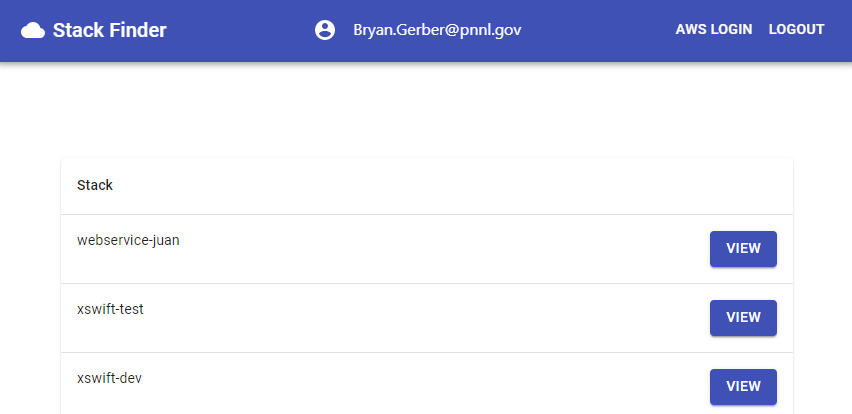
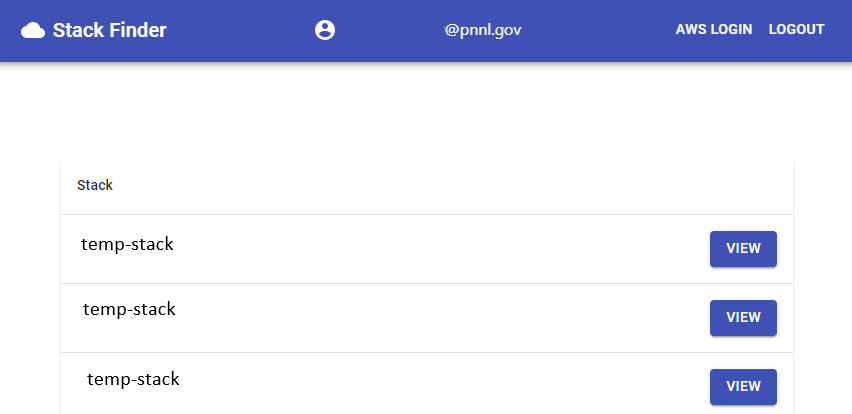
updating readme, and removing duplicate dockerfile

diff --git a/README.md b/README.md
@@ -77,7 +77,7 @@ Clicking into a Stack will show the AWS resources, and optionally a link to the 
 
         # bucket to grab testset data from, this can be changed to 
         # a different bucket that has data if desired
-        BUCKET="n25-testset"
+        BUCKET="temp-bucket"
 
         # tags to filter on, add new tags with comma ',' seperation
         TAGS=["stack-finder"]
@@ -85,15 +85,13 @@ Clicking into a Stack will show the AWS resources, and optionally a link to the 
         # group id or id's that you would like to filter on
         # these can be found at: https://portal.azure.com
         GROUP_ID=[
-            "6244b1cd-56a0-4f32-b192-9f418cf7239f", # panda-viking group
-            "0ba160f8-742c-4ec2-8d5a-60df11b66d95"  # ardis adfs group
+            "12345678-abcd-1234-abcd-123456789abc"
         ]
 
         # provide users that you would like to add
         GROUP=[
-            "henry.macias@pnnl.gov",
-            "bryan.gerber@pnnl.gov",
-            "juan.barajas@pnnl.gov"
+            "first.last@domain.com",
+            "first.last@domain.com"
         ]
         ```
 
@@ -178,11 +176,11 @@ Clicking into a Stack will show the AWS resources, and optionally a link to the 
             #! /usr/bin/env bash
             
             export TESTING=1                                    # let the application know we are testing
-            export STACK="rpm8-n25-webservice-test"             # the default stack I am using
-            export BUCKET="n25-rpm8-incoming"                   # bucket the test stack is using
-            export WEBSERVICE_NAME="rpm8-n25-webservice-test"   # webservice name on AWS
-            export CLUSTER="ardis-n25-dc"                       # cluster the webservice is on
-            export LOG_GROUP="/ecs/rpm8-n25-webservice-test"    # log group the webservice writes to
+            export STACK="aws-stack"                            # the default stack I am using
+            export BUCKET="temp-bucket"                         # bucket the test stack is using
+            export WEBSERVICE_NAME="aws-stack"                  # webservice name on AWS
+            export CLUSTER="aws-cluster"                        # cluster the webservice is on
+            export LOG_GROUP="/ecs/aws-stack"                   # log group the webservice writes to
 
             pytest -v
             ```
